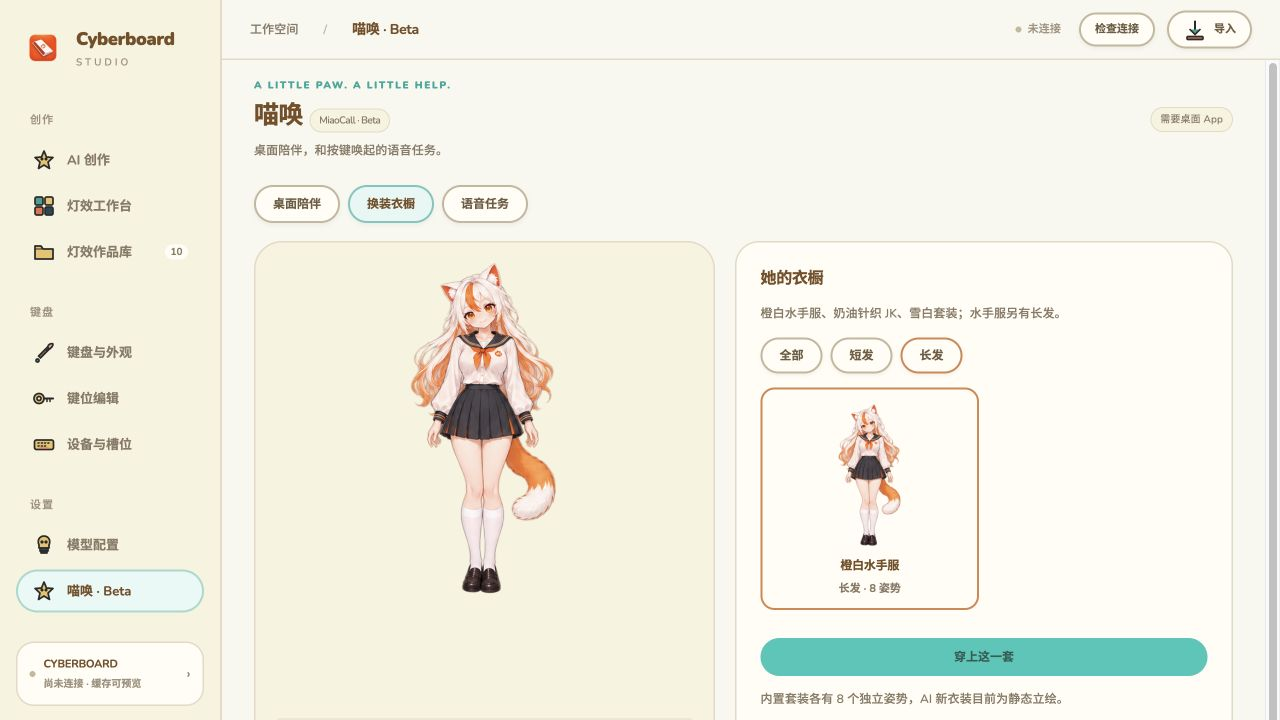
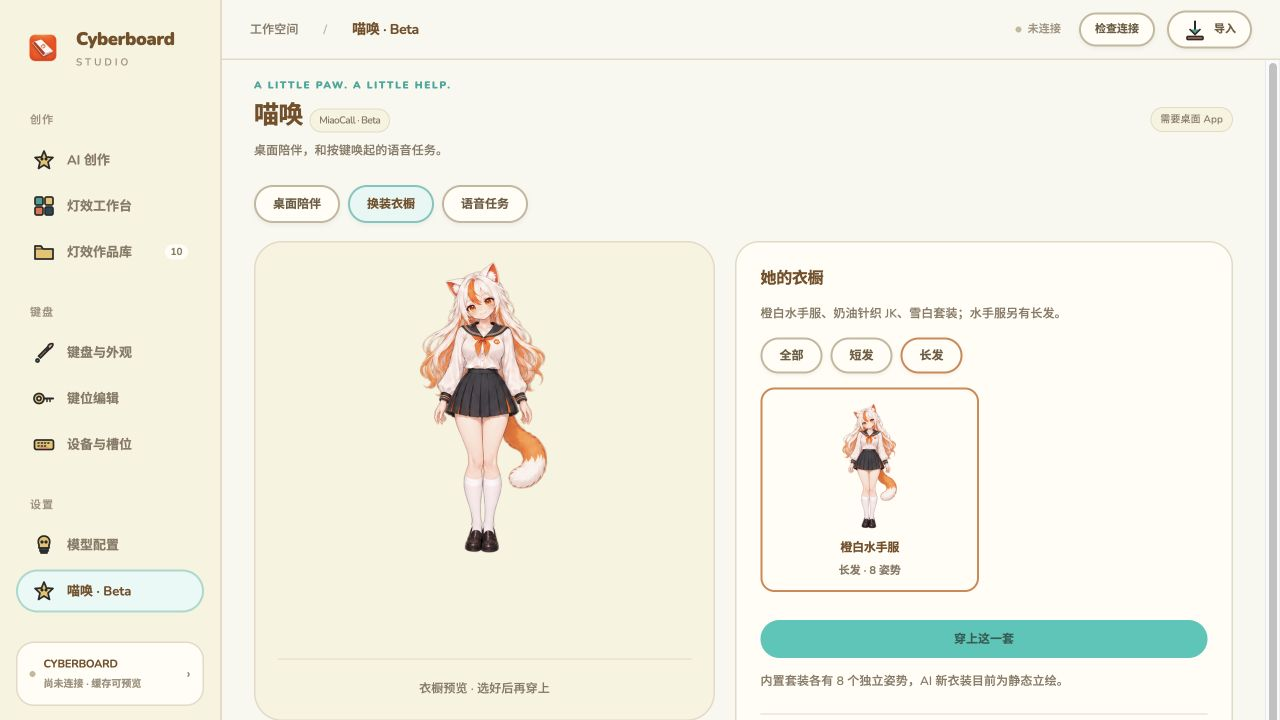
Reduce companion display size across desktop and previews

diff --git a/web/companion.css b/web/companion.css
@@ -1,14 +1,15 @@
 .companion-tabs{display:flex;gap:8px;margin-bottom:18px}.companion-tabs [aria-selected=true]{border-color:var(--primary,#ff8b52);background:var(--hover,#292226);color:var(--text,#fff)}
 .companion-subtitle,.companion-note{font-size:12px;color:var(--muted,#989da5);line-height:1.7}.companion-fields{display:grid;grid-template-columns:1fr 1fr;gap:16px}.companion-fields label,.companion-ai label{display:flex;flex-direction:column;gap:8px;font-size:12px}.companion-check{flex-direction:row!important;align-items:center}.companion-fields select,.companion-ai select,.companion-ai input{width:100%;min-height:36px;padding:7px 36px 7px 10px;border:1px solid var(--border,#34343a);border-radius:9px;background-color:var(--panel,#141516);color:inherit}.companion-fields input[type=checkbox],.companion-check input{width:auto}.companion-fields input[type=range]{width:100%}.companion-touch-guide{margin-top:18px;border-top:1px solid var(--border,#34343a);padding-top:15px}.companion-touch-guide summary,.companion-ai summary{cursor:pointer;font-size:13px;font-weight:600}.companion-zone-demo{display:block;width:100%;background:transparent;border:0;text-align:left;color:inherit;font:inherit;font-size:12px;padding:10px 3px;cursor:pointer;border-bottom:1px solid var(--border,#34343a)}
-.companion-outfits{display:grid;grid-template-columns:repeat(2,minmax(0,1fr));gap:10px;margin:14px 0}.companion-outfit{display:flex;flex-direction:column;align-items:center;gap:6px;padding:12px 6px;border:1px solid var(--border,#34343a);border-radius:14px;background:var(--panel,#17191c);color:inherit;cursor:pointer}.companion-outfit img{height:150px;width:100%;object-fit:contain}.companion-outfit strong{font-size:12px}.companion-outfit span{font-size:11px;color:var(--muted,#989da5)}.companion-outfit[aria-pressed=true]{border:2px solid #d68750;background:rgba(239,150,80,.08);padding:11px 5px}.companion-hair{display:flex;gap:8px}.companion-hair .button{min-height:30px;font-size:12px}.companion-ai{margin-top:22px;border-top:1px solid var(--border,#34343a);padding-top:16px}.companion-ai textarea{display:block;width:100%;min-height:90px;resize:vertical;background-color:var(--panel,#151618);color:inherit;border:1px solid var(--border,#34343a);border-radius:10px;padding:12px;font:inherit;margin:12px 0}.companion-ai details{padding:14px 0}.companion-ai label{margin:12px 0}.companion-ai input[type=password],.companion-ai input[type=text]{font:inherit;min-height:36px}.companion-hotspots{position:absolute;height:350px;aspect-ratio:1/2;top:12px;left:50%;transform:translateX(-50%);pointer-events:none}.companion-hotspot{position:absolute;pointer-events:auto;border:0;background:transparent;border-radius:45%;cursor:help;padding:0}.companion-hotspot:hover,.companion-hotspot:focus-visible{background:rgba(255,176,112,.12);outline:1px dashed rgba(228,133,67,.7)}.companion-preview-bubble{position:absolute;top:30px;right:12px;max-width:170px;pointer-events:none;border-radius:12px;padding:10px;background:var(--panel,#252021);font-size:12px;line-height:1.6;box-shadow:0 4px 20px #0002}.companion-preview-bubble:empty{display:none}.miaocall-stage[data-companion=true]>img{animation:none!important}.companion-controls[hidden],.companion-wardrobe[hidden],.companion-hotspots[hidden]{display:none!important}
+.companion-outfits{display:grid;grid-template-columns:repeat(2,minmax(0,1fr));gap:10px;margin:14px 0}.companion-outfit{display:flex;flex-direction:column;align-items:center;gap:6px;padding:12px 6px;border:1px solid var(--border,#34343a);border-radius:14px;background:var(--panel,#17191c);color:inherit;cursor:pointer}.companion-outfit img{height:132px;width:100%;object-fit:contain}.companion-outfit strong{font-size:12px}.companion-outfit span{font-size:11px;color:var(--muted,#989da5)}.companion-outfit[aria-pressed=true]{border:2px solid #d68750;background:rgba(239,150,80,.08);padding:11px 5px}.companion-hair{display:flex;gap:8px}.companion-hair .button{min-height:30px;font-size:12px}.companion-ai{margin-top:22px;border-top:1px solid var(--border,#34343a);padding-top:16px}.companion-ai textarea{display:block;width:100%;min-height:90px;resize:vertical;background-color:var(--panel,#151618);color:inherit;border:1px solid var(--border,#34343a);border-radius:10px;padding:12px;font:inherit;margin:12px 0}.companion-ai details{padding:14px 0}.companion-ai label{margin:12px 0}.companion-ai input[type=password],.companion-ai input[type=text]{font:inherit;min-height:36px}.companion-hotspots{position:absolute;height:308px;aspect-ratio:1/2;top:12px;left:50%;transform:translateX(-50%);pointer-events:none}.companion-hotspot{position:absolute;pointer-events:auto;border:0;background:transparent;border-radius:45%;cursor:help;padding:0}.companion-hotspot:hover,.companion-hotspot:focus-visible{background:rgba(255,176,112,.12);outline:1px dashed rgba(228,133,67,.7)}.companion-preview-bubble{position:absolute;top:30px;right:12px;max-width:170px;pointer-events:none;border-radius:12px;padding:10px;background:var(--panel,#252021);font-size:12px;line-height:1.6;box-shadow:0 4px 20px #0002}.companion-preview-bubble:empty{display:none}.miaocall-stage[data-companion=true]>img{animation:none!important}.companion-controls[hidden],.companion-wardrobe[hidden],.companion-hotspots[hidden]{display:none!important}
 html[data-ui-theme=island] .companion-tabs [aria-selected=true]{background:#e5f8f4;color:#794f27;border-color:#70c7bd}html[data-ui-theme=island] .companion-outfit{background:#fffdf5}html[data-ui-theme=island] .companion-fields select,html[data-ui-theme=island] .companion-ai select,html[data-ui-theme=island] .companion-ai input,html[data-ui-theme=island] .companion-ai textarea{background-color:#fffbee;color:#725d42;border-color:#d8ceb5}html[data-ui-theme=island] .companion-preview-bubble{background:#fffdf5;color:#794f27}
-@media(max-width:1200px){.companion-hotspots{height:320px;top:30px}}@media(min-height:850px){.companion-hotspots{height:390px;top:8px}}
-.miaocall-stage[data-companion=true]{--companion-height:350px;--companion-top:12px;min-height:460px;max-height:540px}
-.miaocall-stage[data-companion=true]>img,.miaocall-stage[data-companion=true] .companion-hotspots{height:var(--companion-height)!important;top:var(--companion-top)!important}
+@media(max-width:1200px){.companion-hotspots{height:282px;top:30px}}@media(min-height:850px){.companion-hotspots{height:344px;top:8px}}
+.miaocall-stage{--companion-height:308px;--companion-top:12px}
+.miaocall-stage[data-companion=true]{min-height:430px;max-height:480px}
+.miaocall-stage>img,.miaocall-stage[data-companion=true] .companion-hotspots{height:var(--companion-height)!important;top:var(--companion-top)!important}
 .miaocall-stage[data-companion=true] .miaocall-state{display:none}
-.companion-caption{position:relative;margin-top:360px;padding-top:20px;border-top:1px solid var(--border);width:100%;color:var(--muted);font-size:12px;text-align:center}
+.companion-caption{position:relative;margin-top:326px;padding-top:20px;border-top:1px solid var(--border);width:100%;color:var(--muted);font-size:12px;text-align:center}
 .companion-hair [aria-pressed=true]{border-color:#d68750}
-@media(max-width:1200px){.miaocall-stage[data-companion=true]{--companion-height:320px;--companion-top:20px}}
-@media(min-height:850px){.miaocall-stage[data-companion=true]{--companion-height:390px;--companion-top:8px;min-height:500px}.companion-caption{margin-top:400px}}
+@media(max-width:1200px){.miaocall-stage{--companion-height:282px;--companion-top:20px}}
+@media(min-height:850px){.miaocall-stage{--companion-height:344px;--companion-top:8px}.miaocall-stage[data-companion=true]{min-height:450px}.companion-caption{margin-top:362px}}
 
 .companion-fields input[type=checkbox],.companion-ai input[type=checkbox]{width:19px;height:19px;min-height:19px;flex:none;padding:0;accent-color:var(--accent,#e28c52)}

diff --git a/web/index.html b/web/index.html
@@ -1,13 +1,13 @@
 <!doctype html>
 <html lang="zh-CN">
-<head><script src="theme.js?v=miaocall-beta14-entry"></script><meta charset="utf-8"><meta name="viewport" content="width=device-width,initial-scale=1"><title>Cyberboard Studio</title><link rel="stylesheet" href="styles.css?v=miaocall-beta14-entry"><link rel="stylesheet" href="polish.css?v=miaocall-beta14-entry"><link rel="stylesheet" href="creation.css?v=miaocall-beta14-entry"><link rel="stylesheet" href="keymap.css?v=miaocall-beta14-entry"><link rel="stylesheet" href="voice-input.css?v=miaocall-beta14-entry"><link rel="stylesheet" href="miaocall.css?v=miaocall-beta14-entry"><link rel="stylesheet" href="themes.css?v=miaocall-beta14-entry"><link rel="stylesheet" href="island-theme.css?v=miaocall-beta14-entry"><link rel="stylesheet" href="companion.css?v=companion-beta1"></head>
+<head><script src="theme.js?v=miaocall-beta14-entry"></script><meta charset="utf-8"><meta name="viewport" content="width=device-width,initial-scale=1"><title>Cyberboard Studio</title><link rel="stylesheet" href="styles.css?v=miaocall-beta14-entry"><link rel="stylesheet" href="polish.css?v=miaocall-beta14-entry"><link rel="stylesheet" href="creation.css?v=miaocall-beta14-entry"><link rel="stylesheet" href="keymap.css?v=miaocall-beta14-entry"><link rel="stylesheet" href="voice-input.css?v=miaocall-beta14-entry"><link rel="stylesheet" href="miaocall.css?v=miaocall-beta14-entry"><link rel="stylesheet" href="themes.css?v=miaocall-beta14-entry"><link rel="stylesheet" href="island-theme.css?v=miaocall-beta14-entry"><link rel="stylesheet" href="companion.css?v=companion-beta2"></head>
 <body>
 <div class="app-shell">
  <aside class="sidebar">
   <div class="brand"><span class="brand-mark brand-official-mark" id="brandMark" aria-hidden="true"><img src="assets/branding/product-icon/cyberboard-studio-approved-am-paw-v10.png" alt=""></span><div>Cyberboard<span>STUDIO</span></div></div>
   <div class="workspace-label">工作空间</div>
   <nav id="nav" aria-label="主导航"></nav>
-  <div class="sidebar-bottom"><button class="device-mini" id="deviceMini"><span class="status-dot"></span><span><b id="miniDeviceName">CYBERBOARD</b><small id="miniStatus">尚未检查连接</small></span><span class="chevron">›</span></button><button class="nav-item" data-page="support" id="supportNav">支持作者</button><button class="nav-item" data-page="settings" id="settingsNav"></button><div class="version">本地工作室 <span>Companion Beta 1</span></div></div>
+  <div class="sidebar-bottom"><button class="device-mini" id="deviceMini"><span class="status-dot"></span><span><b id="miniDeviceName">CYBERBOARD</b><small id="miniStatus">尚未检查连接</small></span><span class="chevron">›</span></button><button class="nav-item" data-page="support" id="supportNav">支持作者</button><button class="nav-item" data-page="settings" id="settingsNav"></button><div class="version">本地工作室 <span>Companion Beta 2</span></div></div>
  </aside>
  <section class="main-shell">
   <header class="app-header"><div class="breadcrumb">工作空间 <span>/</span> <b id="pageTitle">AI 创作</b></div><div class="header-actions"><span id="connectionBadge" class="connection-badge"><span class="status-dot"></span>未连接</span><button id="detectBtn" class="button">检查连接</button><button id="importBtn" class="button icon-label"></button></div></header>
@@ -82,5 +82,5 @@
 <div class="modal-backdrop" id="chatCompareModal" hidden><section class="sync-modal chat-compare-modal" role="dialog" aria-modal="true" aria-labelledby="chatCompareTitle"><div class="modal-heading"><h2 id="chatCompareTitle">比较灯效版本</h2><button class="icon-button" id="closeChatCompareBtn" aria-label="关闭版本比较">×</button></div><div class="chat-compare-controls"><label>左侧版本<select id="compareLeftVersion"></select></label><label>右侧版本<select id="compareRightVersion"></select></label></div><div class="chat-compare-grid"><div><div id="chatCompareLeft"></div><p id="chatCompareLeftLabel"></p></div><div><div id="chatCompareRight"></div><p id="chatCompareRightLabel"></p></div></div><div class="chat-compare-transport"><button class="button" id="chatComparePlayBtn">同步播放</button><input type="range" id="chatCompareSeek" min="0" max="1000" value="0" aria-label="同步比较进度"><span class="mono" id="chatCompareProgress">0%</span></div><div class="modal-actions"><button class="button" id="closeChatCompareActionBtn">关闭</button></div></section></div>
 <div class="modal-backdrop" id="keymapReviewModal" hidden><section class="sync-modal keymap-review-modal" role="dialog" aria-modal="true" aria-labelledby="keymapReviewTitle"><div class="modal-heading"><div><div class="eyebrow">KEYMAP REVIEW</div><h2 id="keymapReviewTitle">审核键位修改</h2></div><button id="keymapReviewCloseBtn" class="icon-button" aria-label="关闭键位审核">×</button></div><div id="keymapReviewContent" aria-live="polite"></div><div class="modal-actions"><button id="keymapCancelBtn" class="button">取消</button><button id="keymapDiscardBtn" class="button" hidden>放弃草稿</button><button id="keymapResolveBtn" class="button" hidden>保留草稿并读取</button><button id="keymapExecuteBtn" class="button primary" disabled hidden>确认同步这些键位</button></div></section></div>
 <div class="toast" role="status" id="toast" hidden></div>
-<script src="data.js?v=miaocall-beta14-entry"></script><script src="studio-model.js?v=miaocall-beta14-entry"></script><script src="preview-engine.js?v=miaocall-beta14-entry"></script><script src="preview-selector.js?v=miaocall-beta14-entry"></script><script src="ai-client.js?v=miaocall-beta14-entry"></script><script src="library-client.js?v=miaocall-beta14-entry"></script><script src="chat-client.js?v=miaocall-beta14-entry"></script><script src="keymap-client.js?v=miaocall-beta14-entry"></script><script src="voice-input.js?v=miaocall-beta14-entry"></script><script src="miaocall.js?v=miaocall-beta14-entry"></script><script src="assets/companion/catalog.js"></script><script src="companion.js?v=companion-beta1"></script><script src="app.js?v=miaocall-beta14-entry"></script><script src="dialogs.js?v=miaocall-beta14-entry"></script>
+<script src="data.js?v=miaocall-beta14-entry"></script><script src="studio-model.js?v=miaocall-beta14-entry"></script><script src="preview-engine.js?v=miaocall-beta14-entry"></script><script src="preview-selector.js?v=miaocall-beta14-entry"></script><script src="ai-client.js?v=miaocall-beta14-entry"></script><script src="library-client.js?v=miaocall-beta14-entry"></script><script src="chat-client.js?v=miaocall-beta14-entry"></script><script src="keymap-client.js?v=miaocall-beta14-entry"></script><script src="voice-input.js?v=miaocall-beta14-entry"></script><script src="miaocall.js?v=miaocall-beta14-entry"></script><script src="assets/companion/catalog.js"></script><script src="companion.js?v=companion-beta2"></script><script src="app.js?v=miaocall-beta14-entry"></script><script src="dialogs.js?v=miaocall-beta14-entry"></script>
 </body></html>

diff --git a/web/companion.js b/web/companion.js
@@ -13,7 +13,7 @@
     const controls = document.createElement('section'); controls.className = 'settings-card companion-controls';
     controls.innerHTML = `<h2>桌面陪伴</h2><p class="companion-subtitle">让她留在桌面，也可以只在你唤醒时出现。</p>
       <div class="companion-fields"><label>出现方式<select id="companionMode"><option value="wake">仅唤醒时出现</option><option value="resident">常驻桌面</option></select></label>
-      <label>角色大小 <output id="companionSizeLabel">340</output><input id="companionSize" type="range" min="240" max="440" step="10" value="340"></label>
+      <label>角色大小 <output id="companionSizeLabel">300</output><input id="companionSize" type="range" min="240" max="440" step="10" value="300"></label>
       <label class="companion-check"><input id="companionHover" type="checkbox" checked>鼠标停留互动</label><label class="companion-check"><input id="companionSound" type="checkbox">互动声音</label>
       <label>声线<select id="companionVoice"></select></label><label>音量<input id="companionVolume" type="range" min="0" max="1" step="0.05" value="0.45"></label></div>
       <p class="companion-note">四种内置离线声线，声音默认关闭。停留约半秒才回应，同一部位有冷却；拖动与语音任务时不闲聊。</p>

diff --git a/native/MiaoCall.swift b/native/MiaoCall.swift
@@ -310,7 +310,7 @@ private final class MiaoCallOverlay: NSObject, NSWindowDelegate {
     private func layoutPet(expanded: Bool) {
         layingOut = true
         defer { layingOut = false }
-        let height = (style.preferences["size"] as? NSNumber)?.doubleValue ?? 340
+        let height = (style.preferences["size"] as? NSNumber)?.doubleValue ?? 300
         let anchor = NSPoint(x: panel.frame.minX + image.frame.minX, y: panel.frame.minY)
         guard let visible = visibleScreen(for: panel.frame)?.visibleFrame else { return }
         let placement = CompanionPlacement.calculate(anchor: anchor, size: height, expanded: expanded, visible: visible)

diff --git a/native/Studio.swift b/native/Studio.swift
@@ -605,7 +605,7 @@ final class StudioApp: NSObject, NSApplicationDelegate, NSWindowDelegate,
     private var workspaceFailureShowing = false
     private var documentReady = false
     private var exitApproved = false
-    private let releaseVersion = "1.0.0-miaocall.companion.beta.1"
+    private let releaseVersion = "1.0.0-miaocall.companion.beta.2"
     private var navigationGeneration = 0
     private let backendActions: Set<String> = [
         "bootstrap", "detect", "readConfiguration", "plan", "builtInPlan", "initializePlan", "execute", "history", "keymap", "keymapCatalog", "keymapPlan", "setTime", "restorePlan", "saveWorkspace",

diff --git a/web/assets/companion/catalog.js b/web/assets/companion/catalog.js
@@ -298,7 +298,7 @@ window.STUDIO_COMPANION_CATALOG={
     "sound": false,
     "voice": "sweet",
     "volume": 0.45,
-    "size": 340,
+    "size": 300,
     "hover": true
   },
   "interaction": {

diff --git a/README.en.md b/README.en.md
@@ -1,14 +1,16 @@
-# Cyberboard Studio · Companion Private Beta 1
+# Cyberboard Studio · Companion Private Beta 2
 
 [简体中文](README.md) · **English**
 
 A third-party **CYBERBOARD R4 / R6** studio: create lighting through AI conversations, compare versions on real keyboard photographs, and review a plan before syncing. The optional MiaoCall beta turns a held key and a voice instruction into a limited local Codex task.
 
-**[Download Companion Private Beta 1 · macOS](https://github.com/maestrokaka/cyberboard-studio-miaocall/releases/tag/v1.0.0-miaocall.companion.beta.1)** · [Release notes — Chinese](docs/RELEASE_NOTES_COMPANION_BETA1.md) · [Companion guide — Chinese](docs/MIAOCALL_COMPANION.md)
+**[Download Companion Private Beta 2 · macOS](https://github.com/maestrokaka/cyberboard-studio-miaocall/releases/tag/v1.0.0-miaocall.companion.beta.2)** · [Release notes — Chinese](docs/RELEASE_NOTES_COMPANION_BETA2.md) · [Companion guide — Chinese](docs/MIAOCALL_COMPANION.md)
 
 This **private beta** adds a persistent or wake-only desktop companion, 15 hover interactions, 32 poses across four outfit/hair variants, four offline voice styles and opt-in AI wardrobe generation. It preserves the Beta 14 lighting studio. The public repository and public Beta 14 release are unchanged.
 
 ## Desktop companion and wardrobe
+
+Beta 2 reduces the default desktop height from 340 to 300, with proportionally smaller wardrobe and task previews. Character proportions and interaction alignment are preserved.
 
 - Choose **resident or wake-only** independently of the global shortcut; drag her anywhere on the desktop. Position, size and outfit are retained. Bubbles switch sides near the screen edge.
 - **Three outfits plus long hair:** orange-white sailor, cream knit JK and white tailored set; the sailor outfit also has a long-hair version. Each has eight actual pose images.
@@ -47,10 +49,10 @@ Screenshots use a separate interface demonstration environment with no personal 
 
 | Platform / version | Download | Scope |
 | --- | --- | --- |
-| **macOS · Companion Private Beta 1** | [Private package and SHA-256](https://github.com/maestrokaka/cyberboard-studio-miaocall/releases/tag/v1.0.0-miaocall.companion.beta.1) | Apple Silicon, macOS 13+; CLI and runtime included |
+| **macOS · Companion Private Beta 2** | [Private package and SHA-256](https://github.com/maestrokaka/cyberboard-studio-miaocall/releases/tag/v1.0.0-miaocall.companion.beta.2) | Apple Silicon, macOS 13+; CLI and runtime included |
 | Windows · **older RC2** | [RC2 standard x64 / Windows 10 compatibility packages](https://github.com/maestrokaka/cyberboard-studio/releases/tag/v1.0.0-rc.2) | Earlier lighting build, without the new UI, dictation or MiaoCall; native GUI / USB still need hardware testing |
 
-On Mac, download `Cyberboard-Studio-1.0.0-miaocall.companion.beta.1-macOS-Apple-Silicon.zip`, extract it and move the app to Applications. GitHub's Source code archive is for development; `.zip.sha256` is the checksum file. No separate Python installation is required. There is no new Intel Mac, 32-bit Windows or native Windows ARM64 package.
+On Mac, download `Cyberboard-Studio-1.0.0-miaocall.companion.beta.2-macOS-Apple-Silicon.zip`, extract it and move the app to Applications. GitHub's Source code archive is for development; `.zip.sha256` is the checksum file. No separate Python installation is required. There is no new Intel Mac, 32-bit Windows or native Windows ARM64 package.
 
 The Mac app is ad-hoc signed, without Apple Developer ID signing or notarization. Follow [Apple's app-opening instructions](https://support.apple.com/en-gb/102445). Microphone, global-key and Spotify automation access are requested when the corresponding feature is explicitly enabled. Quit the old app before upgrading and retain one fixed signed copy. [Setup and permission guide — Chinese](docs/MIAOCALL_BETA.md)
 
@@ -117,7 +119,7 @@ native/build.sh --backend-dir build/macos-backend/CyberboardBackend
 
 The app is generated at `build/Cyberboard Studio.app`. Windows development notes are in [the runtime guide](windows/runtime-readme.txt); this private preview does not publish a Windows build. Offline checks use synthetic devices and HTTP substitutes, without USB or model credits. See the [offline checks](README.md#离线验证).
 
-This private `feature/miaocall-companion` contains Companion Beta 1 source and assets. It is not pushed to public main; personal audio, voice-cloning sources and desktop recordings are excluded. Public Beta 14 and existing RC2 tags and downloads remain unchanged. For feedback, include your app version, operating system, keyboard model and reproduction steps in an [issue](https://github.com/maestrokaka/cyberboard-studio/issues).
+This private `feature/miaocall-companion` contains Companion Beta 2 source and assets. It is not pushed to public main; personal audio, voice-cloning sources and desktop recordings are excluded. Public Beta 14 and existing RC2 tags and downloads remain unchanged. For feedback, include your app version, operating system, keyboard model and reproduction steps in an [issue](https://github.com/maestrokaka/cyberboard-studio/issues).
 
 ## Support the author
 

diff --git a/README.md b/README.md
@@ -1,14 +1,16 @@
-# Cyberboard Studio · Companion Private Beta 1
+# Cyberboard Studio · Companion Private Beta 2
 
 **简体中文** · [English](README.en.md)
 
 面向 **CYBERBOARD R4 / R6** 的第三方键盘工作室：用 AI 对话创作灯效，在真实键盘照片上比较版本，再调整并同步到键盘。也可以开启实验性的「喵唤」，按住一颗键，把语音指令交给本机 Codex。
 
-**[下载 Companion 私有测试版 · macOS](https://github.com/maestrokaka/cyberboard-studio-miaocall/releases/tag/v1.0.0-miaocall.companion.beta.1)** · [更新说明](docs/RELEASE_NOTES_COMPANION_BETA1.md) · [桌面陪伴与衣橱说明](docs/MIAOCALL_COMPANION.md)
+**[下载 Companion 私有测试版 · macOS](https://github.com/maestrokaka/cyberboard-studio-miaocall/releases/tag/v1.0.0-miaocall.companion.beta.2)** · [更新说明](docs/RELEASE_NOTES_COMPANION_BETA2.md) · [桌面陪伴与衣橱说明](docs/MIAOCALL_COMPANION.md)
 
 这是 **私有测试版**，在 Beta 14 灯效工作室基础上加入桌面常驻、换装衣橱、分部位互动和多声线。只更新此私有仓库，公开仓库与公开 Beta 14 不变。
 
 ## 这一版的喵娘
+
+Beta 2 将桌面角色默认高度从 340 调整为 300，衣橱与任务预览同步缩小约 12%，保持人物比例和触点对应。
 
 - **常驻 / 仅唤醒**独立选择，角色可以拖到桌面任意位置，记住大小和位置；靠近屏幕边缘时对话框自动换侧。常驻不自动录音或启用全局按键。
 - **三套服装 + 长发可选**：橙白水手服、奶油针织 JK、雪白西装套装，水手服另有橙白长发；每组 8 个独立姿势，共 32 张。
@@ -47,10 +49,10 @@
 
 | 平台 / 版本 | 下载 | 说明 |
 | --- | --- | --- |
-| **macOS · Companion Private Beta 1** | [私有测试包与 SHA-256](https://github.com/maestrokaka/cyberboard-studio-miaocall/releases/tag/v1.0.0-miaocall.companion.beta.1) | Apple Silicon，macOS 13 及以上；含 CLI 与运行环境 |
+| **macOS · Companion Private Beta 2** | [私有测试包与 SHA-256](https://github.com/maestrokaka/cyberboard-studio-miaocall/releases/tag/v1.0.0-miaocall.companion.beta.2) | Apple Silicon，macOS 13 及以上；含 CLI 与运行环境 |
 | Windows · **历史 RC2** | [RC2 普通 x64 / Windows 10 兼容包](https://github.com/maestrokaka/cyberboard-studio/releases/tag/v1.0.0-rc.2) | 旧版灯效功能，不含本次新增界面、语音和喵唤；原生 GUI / USB 仍待实机验收 |
 
-Mac 下载 `Cyberboard-Studio-1.0.0-miaocall.companion.beta.1-macOS-Apple-Silicon.zip`，解压后将 App 放入「应用程序」。不要只下载 GitHub 的 Source code；旁边的 `.zip.sha256` 用于校验。无需另装 Python。当前没有 Intel Mac、Windows 32 位或 ARM64 原生新包。
+Mac 下载 `Cyberboard-Studio-1.0.0-miaocall.companion.beta.2-macOS-Apple-Silicon.zip`，解压后将 App 放入「应用程序」。不要只下载 GitHub 的 Source code；旁边的 `.zip.sha256` 用于校验。无需另装 Python。当前没有 Intel Mac、Windows 32 位或 ARM64 原生新包。
 
 App 使用本机 ad-hoc 签名，尚未进行 Apple Developer ID 签名或公证。首次打开按 [Apple 的应用打开说明](https://support.apple.com/en-gb/102445) 操作；喵唤需要的麦克风、全局按键及 Spotify 自动化权限只在明确开启对应功能时请求。升级前先退出旧 App，固定使用同一份已签名包。[详细安装与权限说明](docs/MIAOCALL_BETA.md)
 
@@ -185,7 +187,7 @@ STUDIO_UI_PLATFORM=windows node tests/ui-check.cjs
 
 ## 发布维护
 
-当前私有 `feature/miaocall-companion` 包含 Companion Beta 1 源码与素材；不推送公开 main，也不上传个人测试录音、声纹源文件或桌面录制素材。公开 Beta 14、旧 RC2 的标签和附件保持原样。后续问题欢迎附上版本、系统、键盘型号和复现步骤，到 [Issues](https://github.com/maestrokaka/cyberboard-studio/issues) 反馈。
+当前私有 `feature/miaocall-companion` 包含 Companion Beta 2 源码与素材；不推送公开 main，也不上传个人测试录音、声纹源文件或桌面录制素材。公开 Beta 14、旧 RC2 的标签和附件保持原样。后续问题欢迎附上版本、系统、键盘型号和复现步骤，到 [Issues](https://github.com/maestrokaka/cyberboard-studio/issues) 反馈。
 
 ## 支持作者
 

diff --git a/docs/MIAOCALL_COMPANION.md b/docs/MIAOCALL_COMPANION.md
@@ -1,4 +1,4 @@
-# 喵唤 · Companion Private Beta 1
+# 喵唤 · Companion Private Beta 2
 
 此版本只发布到私有仓库 `maestrokaka/cyberboard-studio-miaocall` 的 `feature/miaocall-companion`。公开 Beta 14、公开 main 和安装包保持不变。当前新包为 macOS Apple Silicon、macOS 13+。
 
@@ -6,7 +6,7 @@
 
 进入「喵唤 · Beta」，三个页签分别负责桌面陪伴、换装衣橱、原有语音任务。AI 创作仍是首页。
 
-- **桌面陪伴**：选择常驻或仅唤醒、240–440 大小、停留互动与音量，点击「应用桌面设置」。常驻独立于全局快捷键，不开麦克风，也不自动启用监听。角色可直接拖动，位置保存；靠屏幕边缘时对话框自动换边。右键可切换声音、出现方式或暂时收起。
+- **桌面陪伴**：默认高度为 300（此前为 340），整体缩小约 12%。可选择常驻或仅唤醒、240–440 大小、停留互动与音量，点击「应用桌面设置」。常驻独立于全局快捷键，不开麦克风，也不自动启用监听。角色可直接拖动，位置保存；靠屏幕边缘时对话框自动换边。右键可切换声音、出现方式或暂时收起。
 - **换装衣橱**：先选择立绘预览，再点击「穿上这一套」。三套服装为橙白水手服、奶油针织 JK、雪白西装套装；水手服另有橙白长发选项。四组各有待机、招手、猫耳、脸颊、伸展、低头、思考、开心 8 个独立姿势。角色统一为成年设定，保持橙白发色、琥珀眼和猫耳尾巴。
 - **声音**：甜萌、御姐、温柔、元气四种成年声线，每种 15 条预先合成语音，共 60 条。声音默认关闭，试听为一次明确播放，不会更改所穿衣装或启用快捷键。正常互动不联网、无需 Key。采用 MiniMax 官方系统声线，没有使用个人声纹源文件。
 - **语音任务**：沿用 MiniMax / 千问 / OpenAI 语音转文字配置，以及本机 Codex 的独立 Spotify 任务。快捷键仍默认关闭；新增陪伴功能不扩大 Agent 操作范围。

diff --git a/docs/RELEASE_NOTES_COMPANION_BETA2.md b/docs/RELEASE_NOTES_COMPANION_BETA2.md
@@ -1,0 +1,10 @@
+# MiaoCall · Companion Private Beta 2
+
+2026-10-24 · macOS Apple Silicon · 私有测试版
+
+- 桌面喵娘默认高度由 340 调整为 300，缩小约 12%；现有手动大小仍保留，可在桌面陪伴中调整。
+- 衣橱、陪伴和语音任务里的角色预览、服装缩略图同步缩小，长宽比例不变。
+- 互动触点跟随角色尺寸，继续使用同一归一化坐标，保留拖动和边缘换侧。
+- 不改变人物原稿、衣装、姿势、声线、灯效或按键；公开版本不变。
+
+沿用 [Companion Beta 1 的功能与验证范围](RELEASE_NOTES_COMPANION_BETA1.md)，详见 [桌面陪伴说明](MIAOCALL_COMPANION.md)。
